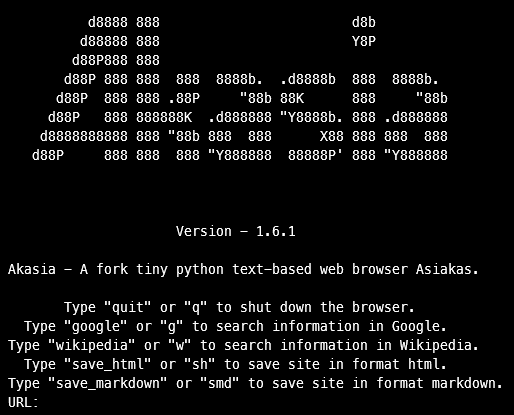
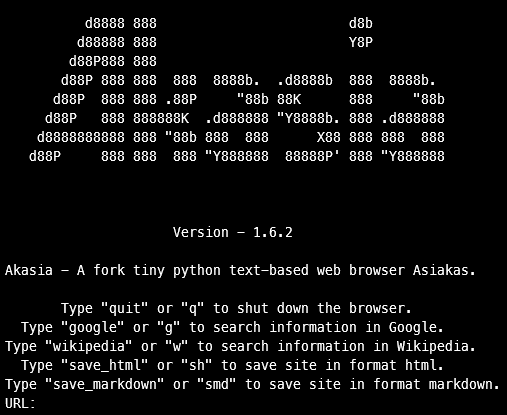
Added support for Python 3.6 version

diff --git a/setup.py b/setup.py
@@ -5,7 +5,7 @@ setup.py is the Akasia setup file.
 from setuptools import setup
 
 setup(
-    version='1.6.1',
+    version='1.6.2',
     license="MIT License",
     name='Akasia',
     author='Robrecht De Rouck',
@@ -19,12 +19,13 @@ setup(
         "Programming Language :: Python :: 3.9",
         "Programming Language :: Python :: 3.8",
         "Programming Language :: Python :: 3.7",
+        "Programming Language :: Python :: 3.6",
         "Programming Language :: Python :: 3 :: Only",
         "Programming Language :: Python :: Implementation :: CPython",
         "Environment :: Console",
         "Intended Audience :: Developers",
     ],
-    python_requires=">=3.7",
+    python_requires=">=3.6",
     py_modules=['akasia'],
     entry_points={
         'console_scripts': ['akasia = akasia:main', ], },

diff --git a/akasia.py b/akasia.py
@@ -6,7 +6,7 @@ import html2text
 import wikipedia
 import dock
 
-VERSION = '1.6.1'
+VERSION = '1.6.2'
 
 # pylint settings:
 # pylint: disable=E1101

diff --git a/CHANGELOG.rst b/CHANGELOG.rst
@@ -2,6 +2,11 @@
 Changelog
 =========
 
+Version 1.6.2
+=============
+
+- Added support for Python 3.6 version
+
 Version 1.6.1
 =============
 
